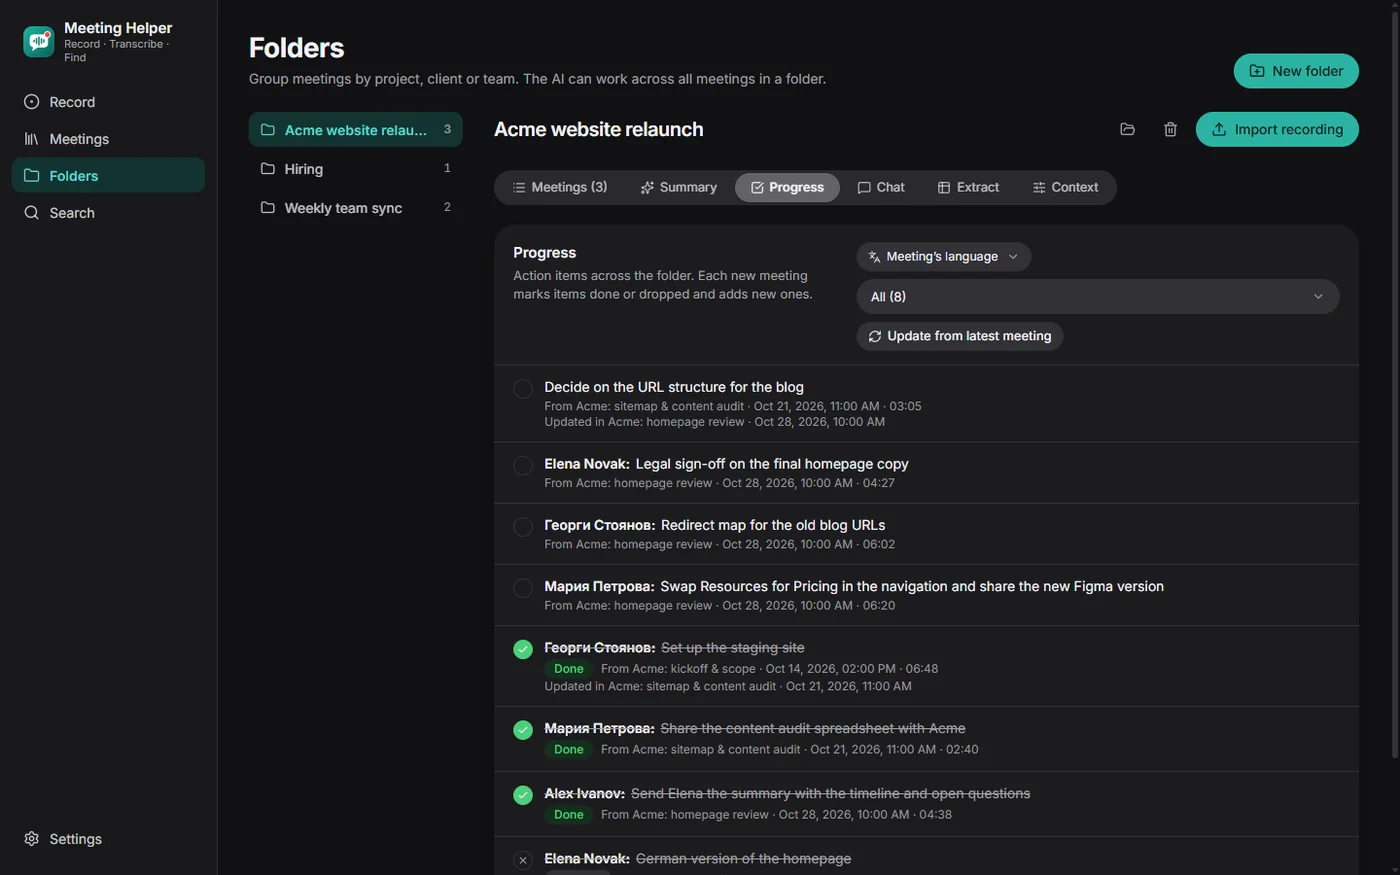
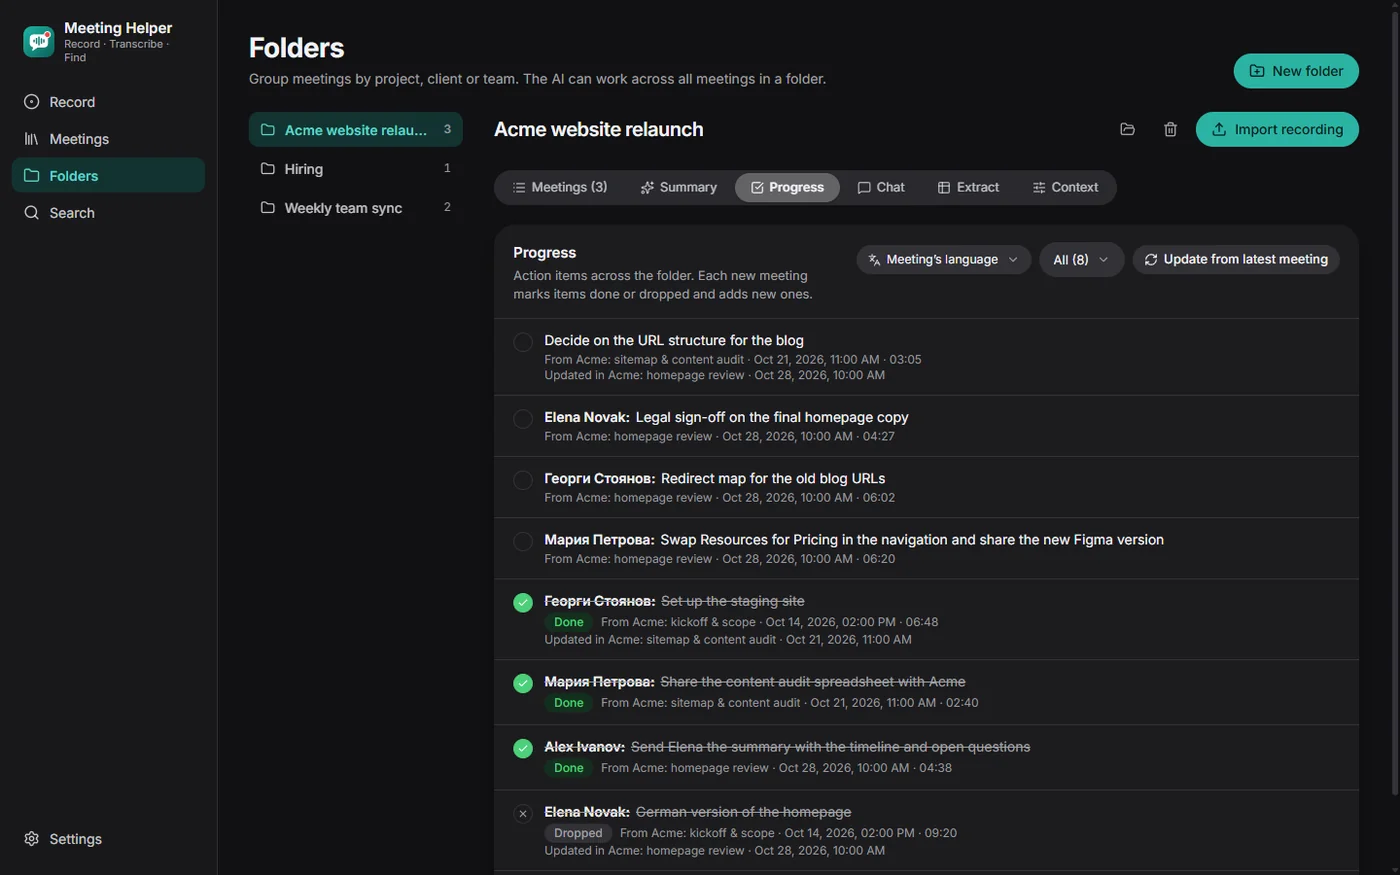
Let a field's own width win, and describe the ask-before-processing step
Inputs, text areas and dropdowns were always full width, so a width set
where they're used (like the Progress tab's filter) could lose. The README
and the Record screen now say the app asks before transcribing. The folder
screenshot is retaken with the fixed Progress header.

Changed region(s): [[0.3686, 0.2777, 0.9521, 0.9874], [0.9829, 0.864, 1.0, 0.9257]]

diff --git a/app/src/components/ui.tsx b/app/src/components/ui.tsx
@@ -205,16 +205,23 @@ const controlClass =
   'transition-[background-color,border-color,box-shadow,color] hover:bg-fill-strong focus:border-accent focus:bg-panel ' +
   'focus:outline-none focus:ring-[3px] focus:ring-accent/20 disabled:opacity-60';
 
+// controlClass makes fields full width. A width passed by the caller (w-auto,
+// w-48…) replaces that default; with both, CSS order decides and the caller's
+// width could silently lose.
+function controlFor(className?: string): string {
+  return /(^|\s)!?w-/.test(className ?? '') ? controlClass.replace('w-full ', '') : controlClass;
+}
+
 export const Input = forwardRef<HTMLInputElement, InputHTMLAttributes<HTMLInputElement>>(function Input(
   { className, ...rest },
   ref,
 ) {
-  return <input ref={ref} className={clsx(controlClass, 'h-9 rounded-full', className)} {...rest} />;
+  return <input ref={ref} className={clsx(controlFor(className), 'h-9 rounded-full', className)} {...rest} />;
 });
 
 export const Textarea = forwardRef<HTMLTextAreaElement, TextareaHTMLAttributes<HTMLTextAreaElement>>(
   function Textarea({ className, ...rest }, ref) {
-    return <textarea ref={ref} className={clsx(controlClass, 'rounded-field py-2.5 leading-relaxed', className)} {...rest} />;
+    return <textarea ref={ref} className={clsx(controlFor(className), 'rounded-field py-2.5 leading-relaxed', className)} {...rest} />;
   },
 );
 
@@ -404,7 +411,7 @@ export function Select({
         onClick={() => (open ? hide() : show())}
         onKeyDown={onKeyDown}
         className={clsx(
-          !plain && controlClass,
+          !plain && controlFor(className),
           !plain && 'h-9 rounded-full',
           'flex cursor-pointer items-center gap-2 text-left disabled:cursor-default',
           className,

diff --git a/app/src/screens/RecordScreen.tsx b/app/src/screens/RecordScreen.tsx
@@ -13,7 +13,7 @@ export default function RecordScreen() {
     <div className="mx-auto max-w-7xl px-8 py-8">
       <PageHeader
         title="Record"
-        description="Record an online meeting with OBS. When you stop, it's imported and transcribed automatically."
+        description="Record an online meeting with OBS. When you stop, it's saved to Meetings and you choose whether to transcribe it."
       />
       <div className="space-y-6">
         <RecordPanel />

diff --git a/README.md b/README.md
@@ -87,7 +87,7 @@ The app tells you if ffmpeg or OBS is missing, and when a new version is out.
 
 1. In OBS: **Tools → WebSocket Server Settings → Enable WebSocket server**, then **Show Connect Info** and copy the password.
 2. In the app: **Record**, paste the password, **Connect**. The app sets up OBS's audio tracks and recording output for you.
-3. Wear headphones (otherwise your mic also picks up the other people), press record, then stop. The recording is converted to MP4 and transcribed automatically.
+3. Wear headphones (otherwise your mic also picks up the other people), press record, then stop. The recording is converted to MP4, and the app asks whether to transcribe it and write a summary, so a test or a few seconds of silence don't cost anything.
 
 <div align="center">
 <img src="docs/screenshots/record-live-dark.webp" alt="The Record screen during a meeting: the running timer and stop button, the live Bulgarian/English transcript, a suggested answer and rolling AI notes" width="620">
